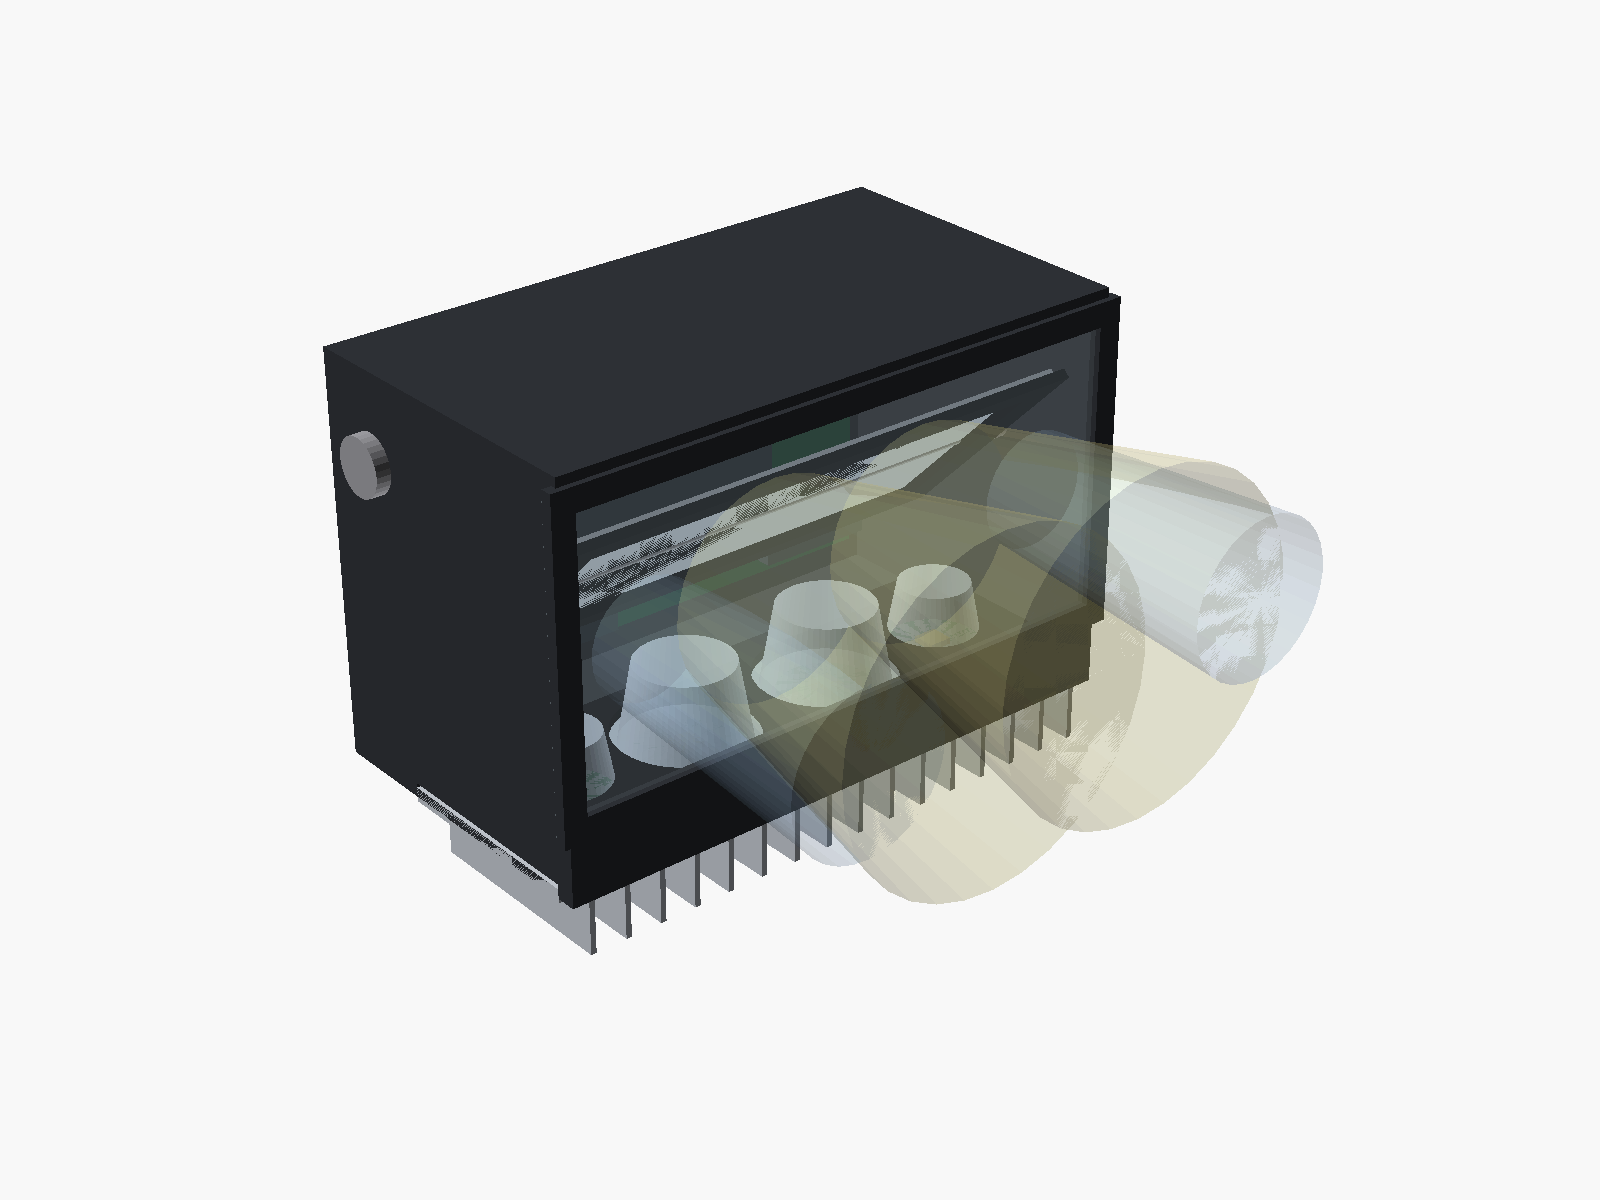
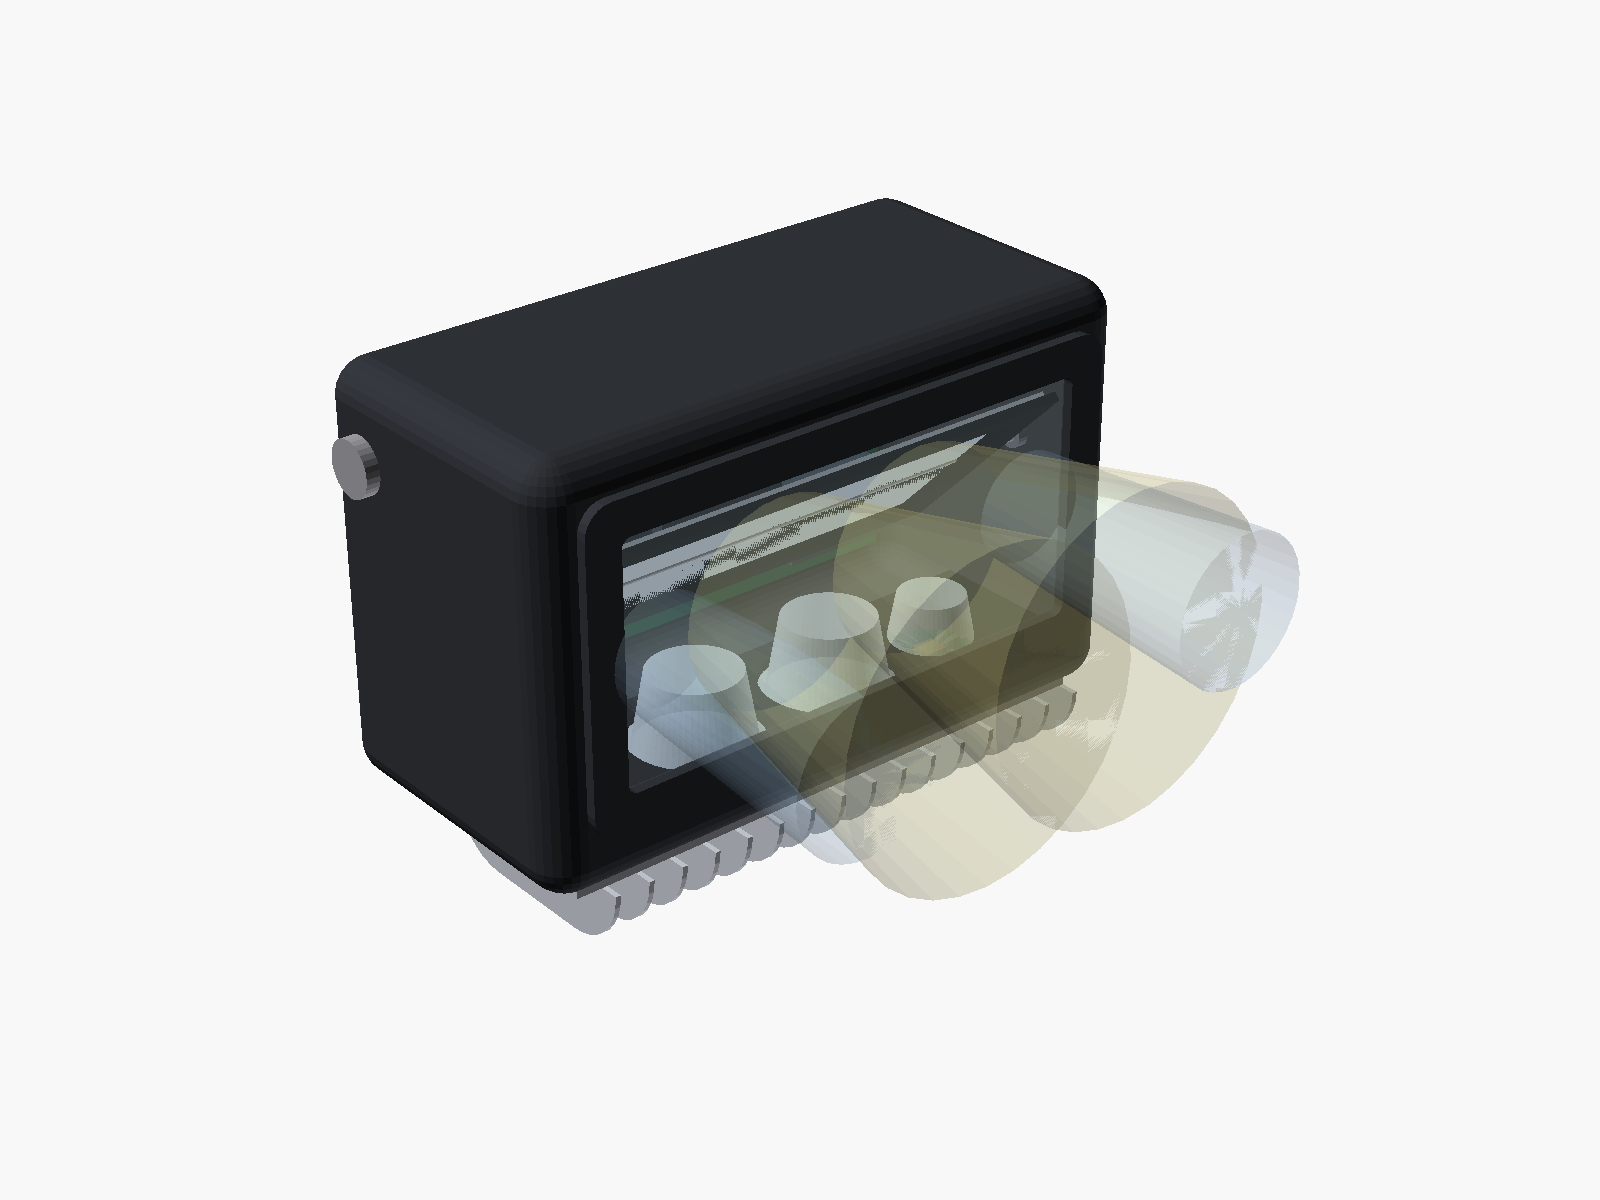
Rounded exterior: 8 mm edges, rounded window, bezel, lidar pocket and fins
Owner's request, 2026-11-21 (safety and looks). The window must sit on
the flat front, so the body grows ~15 mm and ~15 g: ~463 g with lidar.
Adds check C-PKG-08.

diff --git a/docs/design.md b/docs/design.md
@@ -28,7 +28,7 @@ The parts list with links is in [`../hardware/BOM.md`](../hardware/BOM.md).
           └──── aluminium heatsink = floor, fins below, fore-aft ──┘
 ```
 
-**Layout v2 (owner's requirements, 2026-11-21):** the heatsink sits at the **bottom** of the head, and its **fins run fore-aft**, in the direction of travel, so riding airflow passes between them. A heatsink on top with fins across the airflow (v1) cooled poorly. The LEDs face up into the mirror, which folds the beam forward. The **attachment point is on the back or the bottom, never the top**; v2 puts it on the back because the bottom is the heatsink.
+**Layout v2 (owner's requirements, 2026-11-21):** the heatsink sits at the **bottom** of the head, and its **fins run fore-aft**, in the direction of travel, so riding airflow passes between them. A heatsink on top with fins across the airflow (v1) cooled poorly. The LEDs face up into the mirror, which folds the beam forward. The **attachment point is on the back or the bottom, never the top**; v2 puts it on the back because the bottom is the heatsink. The exterior is **rounded**, for safety (nothing sharp in a fall or against a leg) and for looks: the model uses an 8 mm radius on every body edge, rounded window and bezel corners, a rounded lidar pocket and rounded fin ends.
 
 **Why a mirror:**
 - **Angle doubling.** Tilting the mirror by θ moves the beam by 2θ. Correcting ±15° of pitch needs only ±7.5° of mirror travel.
@@ -189,6 +189,7 @@ Sources: [EUC forum: charging a laptop from a wheel](https://forum.electricunicy
 - **Penetrations:**
   - M12 IP68 cable gland, or a panel-mount IP68 connector.
   - Adafruit 16 mm rugged button with an LED ring (comes with a gasket).
+- **Shape:** every external edge rounded, 8 mm radius on the body in the model. The window and bezel sit on the flat part of the front, inside the rounded edges.
 - **Interior:** printed matte black to kill stray light. A lighter colour outside reduces sun heating.
 - **Leak test:** submerge the empty housing with a tissue inside before any electronics go in.
 
@@ -208,19 +209,19 @@ Sources: [EUC forum: charging a laptop from a wheel](https://forum.electricunicy
 *v1 (heatsink lid on top):* everything fitted, but the head came to ~466 g, or ~556 g with the lidar pod hanging underneath.
 
 *v2 (heatsink at the bottom, fins fore-aft), with these weight savings:* 2.0 mm walls (the design's minimum), 2 mm window, 1.1 mm mirror, a heatsink only under the optic zone and sized for moving air (§8), the window 3 mm closer to the mirror, the lidar in a pocket in the top cover, the mount boss on the back, and a 12 mm sealed button instead of the 16 mm metal one.
-- **Size:** body about 128 × 71 × 84 mm; about 101 mm tall with the fins; about 145 mm with the lidar pocket on top.
-- **Fit:** checks C-PKG-01 to C-PKG-07 pass.
+- **Size (rounded, 8 mm edges):** body about 143 × 71 × 90 mm; about 107 mm tall with the fins; about 151 mm with the lidar pocket on top. Rounding adds about 15 mm of length, because the window has to sit on the flat part of the front, and about 15 g.
+- **Fit:** checks C-PKG-01 to C-PKG-08 pass.
 - **Mass by configuration:**
 
 | Configuration | Mass | Within 350 g? |
 |---|---|---|
-| 2 FILIPPA + 2 spot, lidar on the head (current design) | ~448 g | No |
-| 2 FILIPPA + 1 spot, lidar on the head | ~413 g | No |
-| 2 FILIPPA + 2 spot, lidar mounted separately on the wheel | ~376 g | No |
-| 2 FILIPPA + 1 spot, lidar mounted separately on the wheel | ~341 g | Yes |
-| 1 FILIPPA + 1 spot, lidar on the head | ~348 g | Just |
+| 2 FILIPPA + 2 spot, lidar on the head (current design) | ~463 g (~448 g square-edged) | No |
+| 2 FILIPPA + 1 spot, lidar on the head | ~435 g | No |
+| 2 FILIPPA + 2 spot, lidar mounted separately on the wheel | ~386 g | No |
+| 2 FILIPPA + 1 spot, lidar mounted separately on the wheel | ~358 g (~341 g square-edged) | No |
+| 1 FILIPPA + 1 spot, lidar on the head | ~368 g (~348 g square-edged) | No |
 
-- The heaviest items are still the printed body (~98 g) and the heatsink (~79 g). A body with one FILIPPA is about 52 mm shorter because the optic row shrinks; the window stays as wide as the FILIPPA's 32° spread needs.
+- The heaviest items are still the printed body (~105 g) and the heatsink (~79 g). A body with one FILIPPA is about 52 mm shorter because the optic row shrinks; the window stays as wide as the FILIPPA's 32° spread needs.
 - **Lidar off the head:** the IMU in the head still gives the lidar's true depression angle if both are fixed rigidly to the same part of the wheel, so the lidar can live in its own small housing on the shell, joined by a cable.
 
 ## 6. Mounting
@@ -321,7 +322,7 @@ Sources: [EUC forum: charging a laptop from a wheel](https://forum.electricunicy
 - [ ] P6KE27A clamps at ~37.5 V, above the BuckBlock's 32 V maximum. Low risk with a 20 V bank, but a lower-clamp TVS would cover it.
 - [x] Cost over the limit: about $290 core + $98 lidar ≈ $388, against a $350 ceiling. Resolved 2026-11-20: the owner raised the limit to $450, so no parts change.
 - [x] **The flood has no cutoff.** Resolved 2026-11-21: the owner chose two LEDiL FILIPPA-STVZO cutoff optics with XP-L HI as the low beam (§3). A shield or masked mirror edge was rejected because a TIR beam isn't an image, so blocking part of it only dims it without making a sharp edge.
-- [ ] **Head weight is over 350 g.** Layout v2 brings it from ~556 g to ~448 g with the lidar on the head. Configurations that fit the limit: 2 FILIPPA + 1 spot with the lidar mounted separately (~341 g), or 1 FILIPPA + 1 spot with the lidar on the head (~348 g). Needs the owner's decision: one of those, or raise the limit. (2026-11-21)
+- [ ] **Head weight is over 350 g.** Layout v2 brings it from ~556 g to ~448 g with the lidar on the head, and the rounded exterior adds ~15 g (~463 g). Square-edged, two configurations fitted (~341 g and ~348 g); rounded, none do, the closest being 2 FILIPPA + 1 spot with the lidar on the wheel (~358 g). Needs the owner's decision: a configuration, a smaller edge radius, or a higher limit. (2026-11-21)
 - [ ] Heatsink sized for moving air (§8): confirm the riding temperature and the parked derating on the bench (B-THM-01).
 - [ ] FILIPPA with XP-L HI: focus height, cutoff sharpness and cutoff orientation are not in LEDiL's data. Bench tests B-OPT-05 and B-OPT-06.
 - [ ] Larger mirror (115 × 55 mm, about 5× the moment of inertia): does the servo still settle in under 50 ms (B-MIR-01)?

diff --git a/CHANGELOG.md b/CHANGELOG.md
@@ -13,7 +13,7 @@ All notable changes to this project are listed here. The format follows [Keep a 
 - `CONTRIBUTING.md` and `SECURITY.md` (private reporting for safety faults as well as security issues).
 
 ### Changed
-- Layout v2 (owner's requirements, 2026-11-21): heatsink at the bottom with fins fore-aft, LEDs facing up, mount on the back (never the top), lidar in a top pocket, lighter walls, window and mirror. Mass ~556 → ~448 g with the lidar; configurations within 350 g listed in design §5. Design §2 adds how cars and motorcycles level their beams.
+- Layout v2 (owner's requirements, 2026-11-21): heatsink at the bottom with fins fore-aft, LEDs facing up, mount on the back (never the top), rounded exterior (8 mm edges), lidar in a top pocket, lighter walls, window and mirror. Mass ~556 → ~463 g with the lidar (~448 g before rounding); configurations compared in design §5. Design §2 adds how cars and motorcycles level their beams.
 - Low beam: two LEDiL FILIPPA-STVZO cutoff optics with XP-L HI replace the Nichia 519A + Carclo elliptical flood (owner, 2026-11-21). Larger mirror, heatsink and window; BOM, calibration step D and tests B-OPT-05 to B-OPT-07 updated; B-OPT-01 retired. Weight estimate now over the 350 g limit with lidar (open question).
 - design.md §3: beam estimate (beam angles, peak intensity, throw) and a note that the flood has no cutoff; §10 open question; test B-OPT-04.
 - design.md §4: power breakdown, input current per mode, lidar draw, and a 15 V 3 A bank recommendation; why wheel USB ports can't power the head, and the wheel 12 V rail and main-battery alternatives.

diff --git a/docs/test-plan.md b/docs/test-plan.md
@@ -131,7 +131,8 @@ Each check's message in `cad/headlight.scad` or `cad/weight.py` starts with its 
 | C-PKG-05 | Every beam fits the window width (FWTM spread, ±15° steering) | Beam reach ≤ half the inner length | Pass (v2), 2026-11-21 |
 | C-PKG-06 | The servo fits the back slot | Servo width ≤ slot depth − 2 mm | Pass (v2), 2026-11-21 |
 | C-PKG-07 | The bottom heatsink fits inside the floor | Heatsink depth ≤ inner depth | Pass (v2), 2026-11-21 |
-| C-MASS-01 | Head mass of the current configuration (2 FILIPPA + 2 spot, lidar on the head), from model geometry and part masses | ≤ 350 g | **Fail: ~448 g** (v2; was ~556 g in v1), 2026-11-21 |
+| C-PKG-08 | The window and bezel stay on the flat front, clear of the rounded bottom edge | Bezel bottom ≥ edge radius above the floor | Pass (v2), 2026-11-21 |
+| C-MASS-01 | Head mass of the current configuration (2 FILIPPA + 2 spot, lidar on the head), from model geometry and part masses | ≤ 350 g | **Fail: ~463 g** (v2 rounded; ~448 g square-edged, ~556 g in v1), 2026-11-21 |
 
 ## Bench tests (`B-`)
 

diff --git a/cad/README.md b/cad/README.md
@@ -28,4 +28,4 @@ To explore, open `headlight.scad` in OpenSCAD and change `view` (`assembly`, `cu
 
 ## Results (2026-11-21)
 
-Layout v2 (heatsink at the bottom, fins fore-aft, mount on the back): all clearance checks pass. The current configuration (2 FILIPPA + 2 spot, lidar on the head) is about 448 g against the 350 g limit, so C-MASS-01 fails. `renders/mass.txt` compares lighter configurations; two of them fit. See design.md §5 "Packaging study".
+Layout v2 (heatsink at the bottom, fins fore-aft, mount on the back): all clearance checks pass. The current configuration (2 FILIPPA + 2 spot, lidar on the head) is about 463 g with the rounded exterior, against the 350 g limit, so C-MASS-01 fails. `renders/mass.txt` compares lighter configurations; none fits once rounded. See design.md §5 "Packaging study".

diff --git a/README.md b/README.md
@@ -53,8 +53,8 @@ Side view of the head (layout v2):
 | Low beam (cutoff) at 10 m | ~73 lux | ~95 lux |
 | Input power | ~21 W | ~30 W |
 | Runtime on a 20 Ah bank (~50 Wh usable at 15 V) | ~2.4 h | ~1.7 h |
-| Head weight (limit: 350 g with lidar) | ~376 g, ~448 g with lidar on the head (packaging study v2): over the limit, see design §10 | |
-| Head size | ~128 × 71 × 101 mm (+ ~44 mm lidar pocket on top) | |
+| Head weight (limit: 350 g with lidar) | ~386 g, ~463 g with lidar on the head (packaging study v2): over the limit, see design §10 | |
+| Head size | ~143 × 71 × 107 mm, rounded (+ ~44 mm lidar pocket on top) | |
 | Material cost per unit (limit: $450 with lidar) | ~$297 + power bank (+ ~$98 lidar) | |
 
 ## Repository layout
